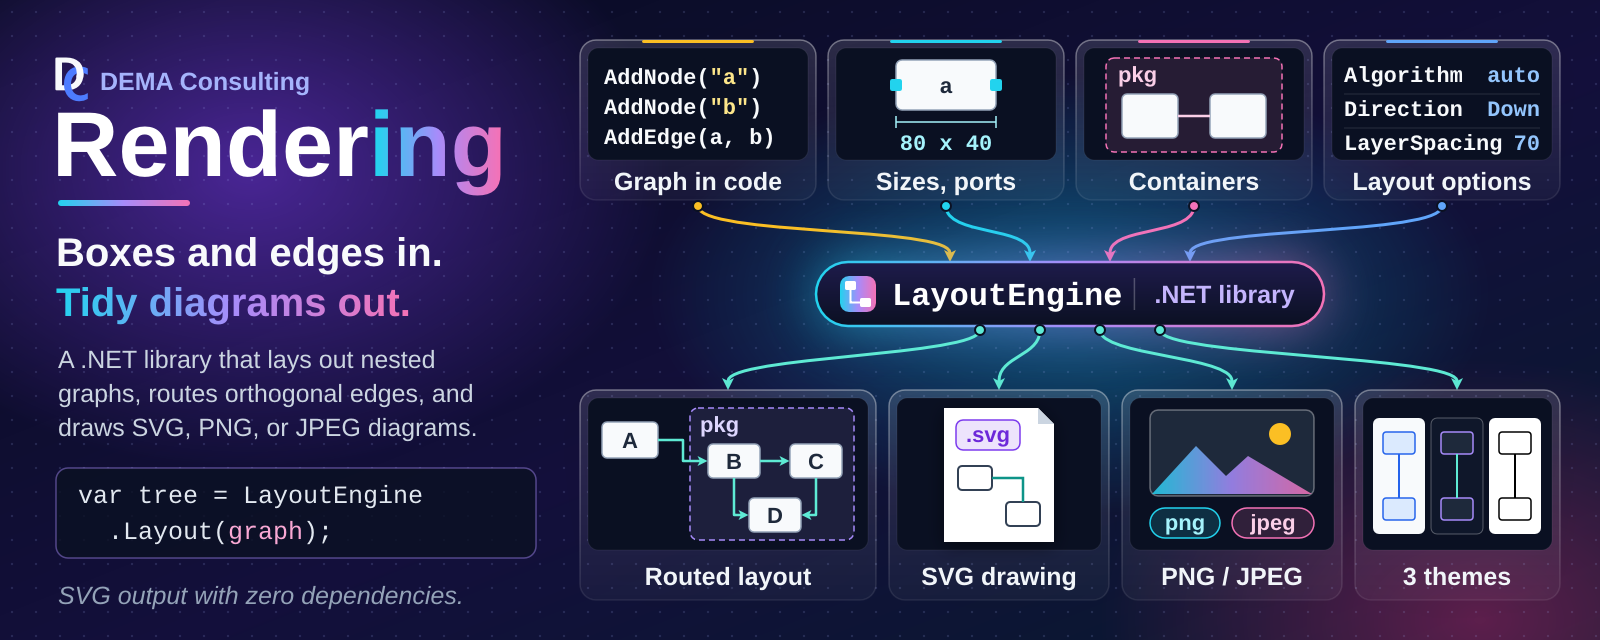
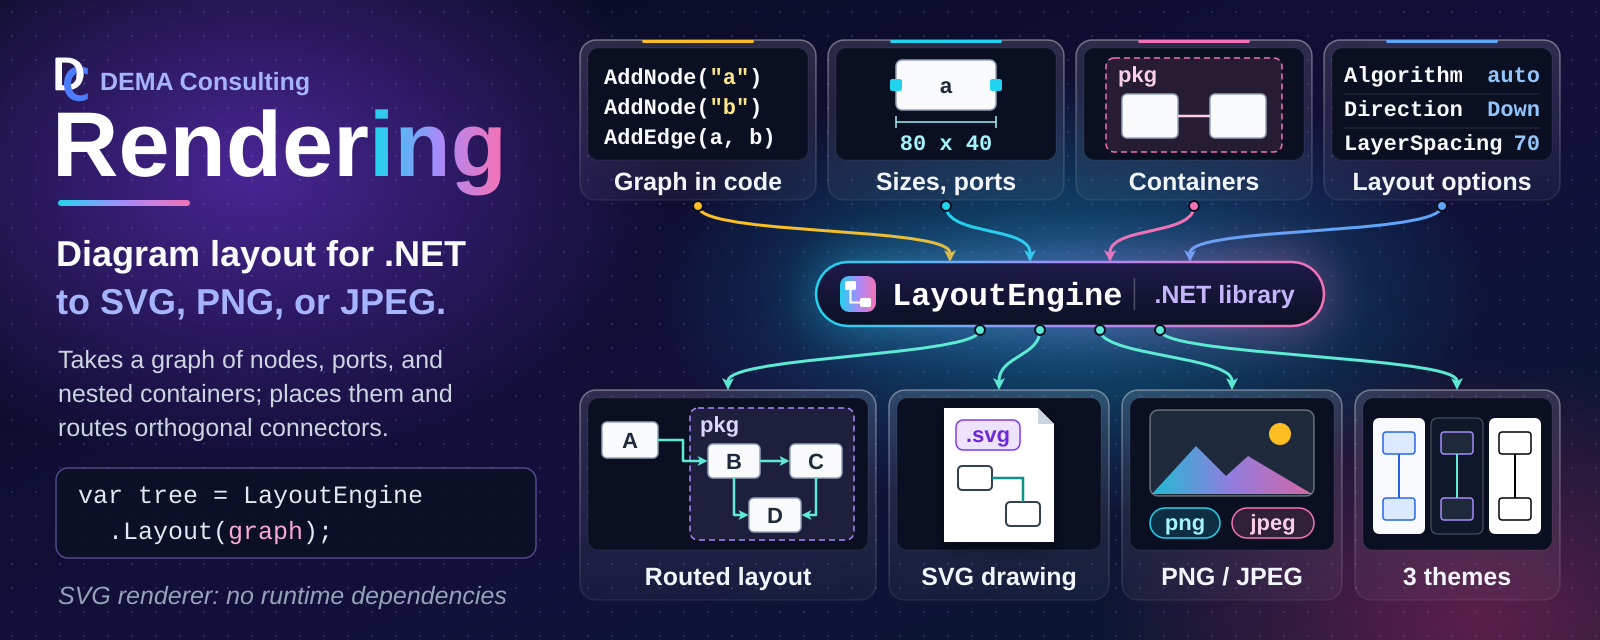
Sync agents/template and calm the README hero (#79)
* Sync shared agents, skills, and standards from Agents main

Brings in docdown skill wording (#60), orchestrator Pull Requests section and
planning feasibility step (#62), SysML2 one-package-per-file rules (#64), and
the AGENTS.md Project Scripts section (#62).

* Sync template: yamlfix comment rule and script CUSTOMIZATION headers

Applies template #61 (comments_require_starting_space = false) and #63
(CUSTOMIZATION header in build.ps1, lint.ps1, fix.ps1). Script behavior is
unchanged.

* Calm the README hero and make it the H1

Plain two-line tagline (no gradient), factual body and footnote, and the hero
image as the README H1 with name-and-tagline alt text (template #66, #67).

* Record the legacy SysML2 engine subsystem name as a repository exception

---------

Changed region(s): [[0.0312, 0.5312, 0.3125, 0.6875], [0.0312, 0.375, 0.3125, 0.5], [0.0625, 0.9062, 0.3125, 0.9688]]

diff --git a/.github/standards/sysml2-modeling.md b/.github/standards/sysml2-modeling.md
@@ -31,15 +31,15 @@ docs/sysml2/
 ├── common/
 │   └── software-items.sysml           # shared SoftwareItemMetadata::SoftwareInfo metadata def
 ├── model/
-│   ├── {system-name}.sysml            # system-level part def only (no subsystems/units inline)
+│   ├── {system-name}.sysml            # package {SystemName}; system-level part def only (no subsystems/units inline)
 │   ├── {system-name}/
-│   │   ├── {subsystem-name}.sysml     # subsystem part def; nests further for sub-subsystems
+│   │   ├── {subsystem-name}.sysml     # package {SystemName}_{SubsystemName}Subsystem; nests further for sub-subsystems
 │   │   └── {subsystem-name}/
-│   │       └── {unit-name}.sysml      # one file per unit
-│   ├── ots.sysml                      # OTS dependency parts (optional; if OTS items exist)
-│   └── shared.sysml                   # Shared Package parts (optional; if Shared Packages exist)
+│   │       └── {unit-name}.sysml      # package {SystemName}_{UnitName}; one file per unit
+│   ├── ots.sysml                      # package OtsDependencies: OTS parts (optional; if OTS items exist)
+│   └── shared.sysml                   # package SharedPackages: Shared Package parts (optional; if Shared Packages exist)
 └── views/
-    └── design-views.sysml             # named view usages rendered for the design document
+    └── design-views.sysml             # package {RepoName}DesignViews; named view usages rendered for the design document
 ```
 
 `docs/sysml2/common/software-items.sysml` defines the `SoftwareItemMetadata::SoftwareInfo`
@@ -62,14 +62,42 @@ so no single alias name would generalize. Agents discover the system(s) present 
 `docs/sysml2/**/*.sysml`, not by assuming a fixed name.
 
 Always pass the full set of `.sysml` files (or an equivalent glob) to every `sysml2tools`
-invocation — the model spans multiple files and cross-references between them; files sharing
-the same `package Name { ... }` merge into one namespace automatically with no `import`
-required, as long as all files are passed together. As of `sysml2tools` 0.1.0-beta.5,
+invocation — the model spans multiple files and cross-references between them, and a
+reference only resolves when the file declaring its target is loaded (see Package Structure
+below for how files reference each other). As of `sysml2tools` 0.1.0-beta.5,
 `lint` and `render` both expand `*`/`**` glob patterns internally (recursing correctly into
 subdirectories), so pass a single **quoted** glob string (e.g. `'docs/sysml2/**/*.sysml'`)
 and let the tool resolve it — do not rely on the shell to expand it, and do not quote-strip
 the pattern before it reaches the tool. Quoting keeps the behavior identical across
 PowerShell and bash, since neither shell needs to (or reliably does) expand `**` itself.
+
+## Package Structure
+
+SysML v2 has no package merging: each file is its own root namespace, and two root packages
+with the same name are duplicate members of the global namespace (the OMG Pilot
+Implementation reports "Duplicate of other owned member name" for each, and references across
+the halves do not resolve). A model that only loads because a tool is lenient is not portable,
+so:
+
+- Each `.sysml` file declares **exactly one uniquely named package**, and a package is never
+  declared (or "reopened") in more than one file.
+- Name each package from its place in the hierarchy, joined with an underscore:
+  `{SystemName}` for the system file, `{SystemName}_{SubsystemName}Subsystem` for a subsystem
+  (including a nested sub-subsystem, which is not prefixed with its parent subsystem), and
+  `{SystemName}_{UnitName}` for a unit. The system prefix keeps names unique across systems.
+  The shared files use `OtsDependencies` and `SharedPackages`, and the single views file uses
+  one repository-level package, `{RepoName}DesignViews` (not one per system).
+- Package names must be unique **repository-wide**. The short forms above are the default;
+  when one would collide (two `Storage` subsystems in different branches, or two units named
+  `Cache` in different subsystems), qualify it with the owning subsystem path, for example
+  `{SystemName}_{SubsystemName}_{UnitName}` (`Acme_Ingest_Cache` and `Acme_Query_Cache`).
+- Reference other files with an explicit `private import {PackageName}::*;` (a system or
+  subsystem file imports the package of each direct member so its `part` usages resolve; every
+  file that applies `SoftwareInfo` imports `SoftwareItemMetadata::*`).
+- Where an import would form a cycle (for example a unit that depends on a package that
+  already imports it), or for a one-off reference into another system, use the qualified name
+  instead, e.g. `dependency {UnitName} to {SystemName}_{OtherUnit}::{OtherUnit};`.
+  Import cycles raise a lint warning; qualified references do not.
 
 ## Model Content
 
@@ -174,11 +202,13 @@ Views control what gets rendered into diagrams for the design document. Use name
 **usages** (not `view def` **definitions**) — `expose` is only valid inside a usage:
 
 ```sysml
-package {SystemName} {
+package {RepoName}DesignViews {
     private import StandardViewDefinitions::*;
+    private import {SystemName}::*;
+    private import {SystemName}_{SubsystemName}Subsystem::*;
 
     view SoftwareStructureView : InterconnectionView {
-        expose {SystemName}::**;     // all members, recursively: system + subsystems + units
+        expose {SystemName}::{SystemName}System::**;  // system part def, recursively: subsystems + units
     }
 
     view {SystemName}View {
@@ -186,10 +216,12 @@ package {SystemName} {
     }
 
     view {SubsystemName}View {
-        expose {SubsystemName};      // one subsystem def only
+        expose {SubsystemName}Subsystem;      // one subsystem def only
     }
 }
 ```
+
+Views import (or qualify) every package whose members they expose, like any other file.
 
 Type `SoftwareStructureView` by a standard view definition from the SysML v2 Views library
 (`GeneralView`, `InterconnectionView`, ...; requires `sysml2tools` 0.3.0-beta.3+). The view
@@ -223,25 +255,27 @@ There is no dedicated `DependencyView`/`{SubsystemName}DependencyView` diagram c
 above), not rendered.
 
 When a repository has multiple systems, type `SoftwareStructureView` by `GeneralView`,
-expose each system package's members, and filter out documentation so the overview stays
-readable — the general view draws one package frame per system, while an interconnection
-view places all systems in a single row:
+expose each system's part def (and each subsystem's, by qualified name), and filter out
+documentation so the overview stays readable — the general view draws one package frame per
+system, while an interconnection view places all systems in a single row:
 
 ```sysml
 package {RepoName}DesignViews {
     private import StandardViewDefinitions::*;
 
     view SoftwareStructureView : GeneralView {
-        expose {SystemNameA}::**;
-        expose {SystemNameB}::**;
-        filter not @SysML::Documentation;
+        expose {SystemNameA}::{SystemNameA}System;
+        expose {SystemNameA}_{SubsystemName}Subsystem::{SubsystemName}Subsystem;
+        expose {SystemNameB}::{SystemNameB}System;
+        filter not (@SysML::Documentation);
     }
 }
 ```
 
 Documentation (`doc`) is exposed with its owner and drawn as a `doc` compartment unless a
-view filters it out; use `filter not @SysML::Documentation;` wherever doc text would clutter
-a diagram.
+view filters it out; use `filter not (@SysML::Documentation);` wherever doc text would clutter
+a diagram. The parentheses are required: the SysML v2 grammar does not accept the unparenthesized
+`filter not @SysML::Documentation;`.
 
 ## Diagram Embedding
 
@@ -313,6 +347,9 @@ sync.
   `sourceFiles`; the purpose statement appears only in the `doc` comment, never in `SoftwareInfo`
 - [ ] `docs/sysml2/views/design-views.sysml` uses `view Name { expose ...; }` usages, not
   `view def` definitions
+- [ ] Each `.sysml` file declares exactly one uniquely named package (never the same package
+  in two files), named per Package Structure, and references other files through
+  `private import` or qualified names (qualified where an import would form a cycle)
 - [ ] View names follow the `SoftwareStructureView` / `{SystemName}View` /
   `{SubsystemName}View` convention (no dedicated `DependencyView`)
 - [ ] Each Unit's real collaborators are captured as `dependency A to B;` statements, and each

diff --git a/.github/skills/sysml2tools-query/SKILL.md b/.github/skills/sysml2tools-query/SKILL.md
@@ -21,11 +21,15 @@ dotnet tool restore
 ## Model files
 
 - `docs/sysml2/model/{system-name}.sysml` — system-level `part def` only (no subsystems/units
-  inline). A repository may contain more than one system.
+  inline), in package `{SystemName}`. A repository may contain more than one system.
 - `docs/sysml2/model/{system-name}/{subsystem-name}.sysml` and
   `docs/sysml2/model/{system-name}/{subsystem-name}/{unit-name}.sysml` — one file per
   Subsystem/Unit, nested to mirror the same folder depth as that item's companion
-  `docs/design/`, `docs/reqstream/`, and `docs/verification/` files.
+  `docs/design/`, `docs/reqstream/`, and `docs/verification/` files. Each declares its own
+  uniquely named package; by default `{SystemName}_{SubsystemName}Subsystem` or
+  `{SystemName}_{UnitName}`, qualified with the subsystem path
+  (`{SystemName}_{SubsystemName}_{UnitName}`) when the short name would collide. An element's
+  qualified name is e.g. `{SystemName}_{UnitName}::{UnitName}`.
 - `docs/sysml2/model/ots.sysml` — off-the-shelf (OTS) dependency parts (present when OTS items
   exist).
 - `docs/sysml2/model/shared.sysml` — Shared Package parts (present when Shared Package items
@@ -35,9 +39,10 @@ dotnet tool restore
   useful to see how diagrams are scoped.
 
 Always pass all `.sysml` files (or a glob covering them) to every `sysml2tools`
-invocation — the model spans multiple files and cross-references between them; files that
-reopen the same `package Name { ... }` from different files merge into one namespace
-automatically, no `import` required. As of `sysml2tools` 0.1.0-beta.5, every subcommand
+invocation — the model spans multiple files and cross-references between them (each file
+declares one uniquely named package and references others through `import` or qualified
+names; same-named packages in different files are not merged), so every file a reference
+points at must be loaded. As of `sysml2tools` 0.1.0-beta.5, every subcommand
 (`lint`, `render`, `query`) expands `*`/`**` glob patterns internally and recurses
 correctly — pass a single **quoted** glob string and let the tool resolve it, rather than
 relying on the shell (quoting works identically in both PowerShell and bash):
@@ -57,7 +62,7 @@ summary line, so one query gets you every artifact location for that item withou
 the source tree:
 
 ```pwsh
-dotnet sysml2tools query describe -e {SystemName}::{UnitName} 'docs/sysml2/**/*.sysml'
+dotnet sysml2tools query describe -e {SystemName}_{UnitName}::{UnitName} 'docs/sysml2/**/*.sysml'
 ```
 
 ```text

diff --git a/AGENTS.md b/AGENTS.md
@@ -119,6 +119,15 @@ of the package references listed in `csharp-testing.md`:
   rejects VSTest-based projects under the MTP runner.
 - Produce TRX results with `dotnet test --report-trx` (not `--logger trx`).
 
+## SysML2 package structure (legacy layout, migration pending)
+
+The model under `docs/sysml2/` declares one uniquely named package per file, but the engine subsystem
+(`model/rendering-layout/engine/engine.sysml`) predates the subsystem naming rule: it uses package
+`RenderingLayout_Engine` and `part def Engine` (qualified name `RenderingLayout_Engine::Engine`) rather than
+`RenderingLayout_EngineSubsystem` / `EngineSubsystem`. The `sysml2-modeling.md` Package Structure rules and the
+`sysml2tools-query` qualified-name examples apply once the model is migrated in a dedicated PR; until then agents use
+the existing package names and must not partially restructure the model.
+
 # Agent Delegation Guidelines
 
 The default agent should handle simple, straightforward tasks directly.
@@ -191,7 +200,17 @@ requires it and the modification preserves the documented design intent:
 
 - `.reviewmark.yaml`, `.textlint.yaml`, `.editorconfig`
 - `.lintmark.yaml`, `.yamllint.yaml`
-- `requirements.yaml`, `fix.ps1`, `lint.ps1`
+- `requirements.yaml`
+
+# Project Scripts
+
+`build.ps1`, `lint.ps1`, and `fix.ps1` belong to the project: extend them as it grows. Add project-specific
+steps, update tool versions, and add optional parameters that focus a run (for example one library in a
+multi-library repository, or headless tests without GUI automation). Two rules keep them trustworthy:
+
+- Run with no arguments, each script still does its full job (CI and the agents rely on that); slow or
+  environment-dependent test tiers may be opt-in switches of `build.ps1`.
+- Never remove or weaken a check to make lint or tests pass.
 
 # Continuous Compliance Overview
 

diff --git a/.github/agents/orchestrator.agent.md b/.github/agents/orchestrator.agent.md
@@ -48,3 +48,16 @@ briefly, what you loaded.
   let the user answer in their own words. Do not batch decisions into structured question forms (such as an
   `ask_user` tool); they strip away the context the user needs to decide and turn the session into a
   questionnaire.
+
+# Pull Requests (MANDATORY)
+
+Aim for pull requests that each merge one complete, useful change that could be cherry-picked on its own.
+
+- Before starting work that could span more than one pull request, propose the grouping and let the user
+  decide. The user may split it, or combine several small requests into one pull request.
+- When splitting, split by behavior, not by layer or file type: each part carries its own code, tests,
+  requirements, and docs, builds and passes alone, and leaves no stubs or dead code for a later part.
+- Deliver parts in order: start the next part from main only after the previous one merges.
+- Review fixes, lint fixes, and follow-ups go into the open pull request they belong to, not a new one.
+- Sub-agents work on the agreed branch and do not open pull requests; you decide when it is complete.
+- Keep mechanical churn (formatting, renames, generated files) in its own commit so reviewers can skip it.

diff --git a/README.md b/README.md
@@ -1,4 +1,4 @@
-# Rendering
+# ![Rendering: Diagram layout for .NET to SVG, PNG, or JPEG][hero]
 
 [![GitHub forks][badge-forks]][link-forks]
 [![GitHub stars][badge-stars]][link-stars]
@@ -8,8 +8,6 @@
 [![Quality Gate][badge-quality]][link-quality]
 [![Security][badge-security]][link-security]
 [![NuGet][badge-nuget]][link-nuget]
-
-![Rendering banner: the Rendering name with the tagline 'Boxes and edges in. Tidy diagrams out.' and the C# call 'var tree = LayoutEngine.Layout(graph);'. A graph built in code with AddNode and AddEdge, node sizes and ports, nested containers, and layout options such as Algorithm, Direction, and LayerSpacing flow on curved arrows into the LayoutEngine .NET library, and arrows lead out to what it produces: a placed layout of nested boxes joined by routed orthogonal connectors, an SVG drawing, PNG and JPEG images, and the light, dark, and print themes][hero]
 
 General-purpose diagram layout and rendering for .NET. Describe a diagram as a graph, lay it out
 with a pluggable algorithm, and render it to SVG, PNG, or JPEG. The design is inspired by the

diff --git a/.github/agents/planning.agent.md b/.github/agents/planning.agent.md
@@ -52,10 +52,13 @@ Repeat up to 2 more times, stopping when the plan is stable.
 
 List up to 5 risks with a brief mitigation for each.
 
-## Step 6 — Feasibility Assessment
+## Step 6 — Feasibility and Delivery
 
 State whether this can be implemented in a single development pass and any
-preconditions that affect feasibility.
+preconditions that affect feasibility. Propose how the work groups into pull
+requests: one complete, useful change per pull request where possible; if it
+should be split, list ordered parts that are split by behavior (not by layer or
+file type) and each build, pass, and deliver something on their own.
 
 ## Step 7 — Recommendation
 
@@ -108,9 +111,12 @@ Then respond to the caller with ONLY the lean structured summary below.
 
 1. **[severity]** {risk} — {mitigation}
 
-## Feasibility Assessment
+## Feasibility and Delivery
 
 {Single-pass or not, and why. Any preconditions.}
+
+{Proposed pull-request grouping: one pull request, or ordered parts split by behavior,
+each with what it delivers on its own.}
 
 ## Unknowns
 
